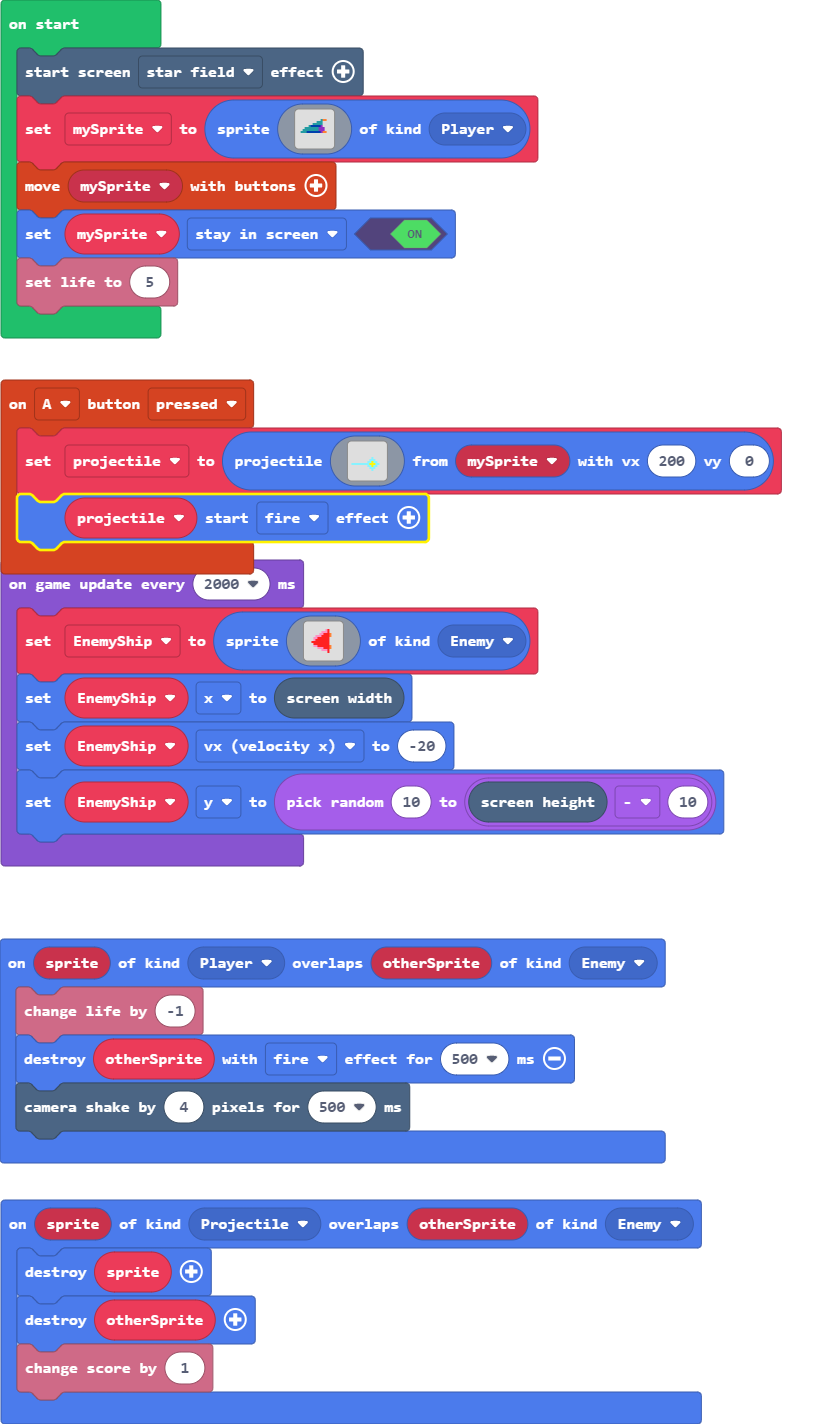
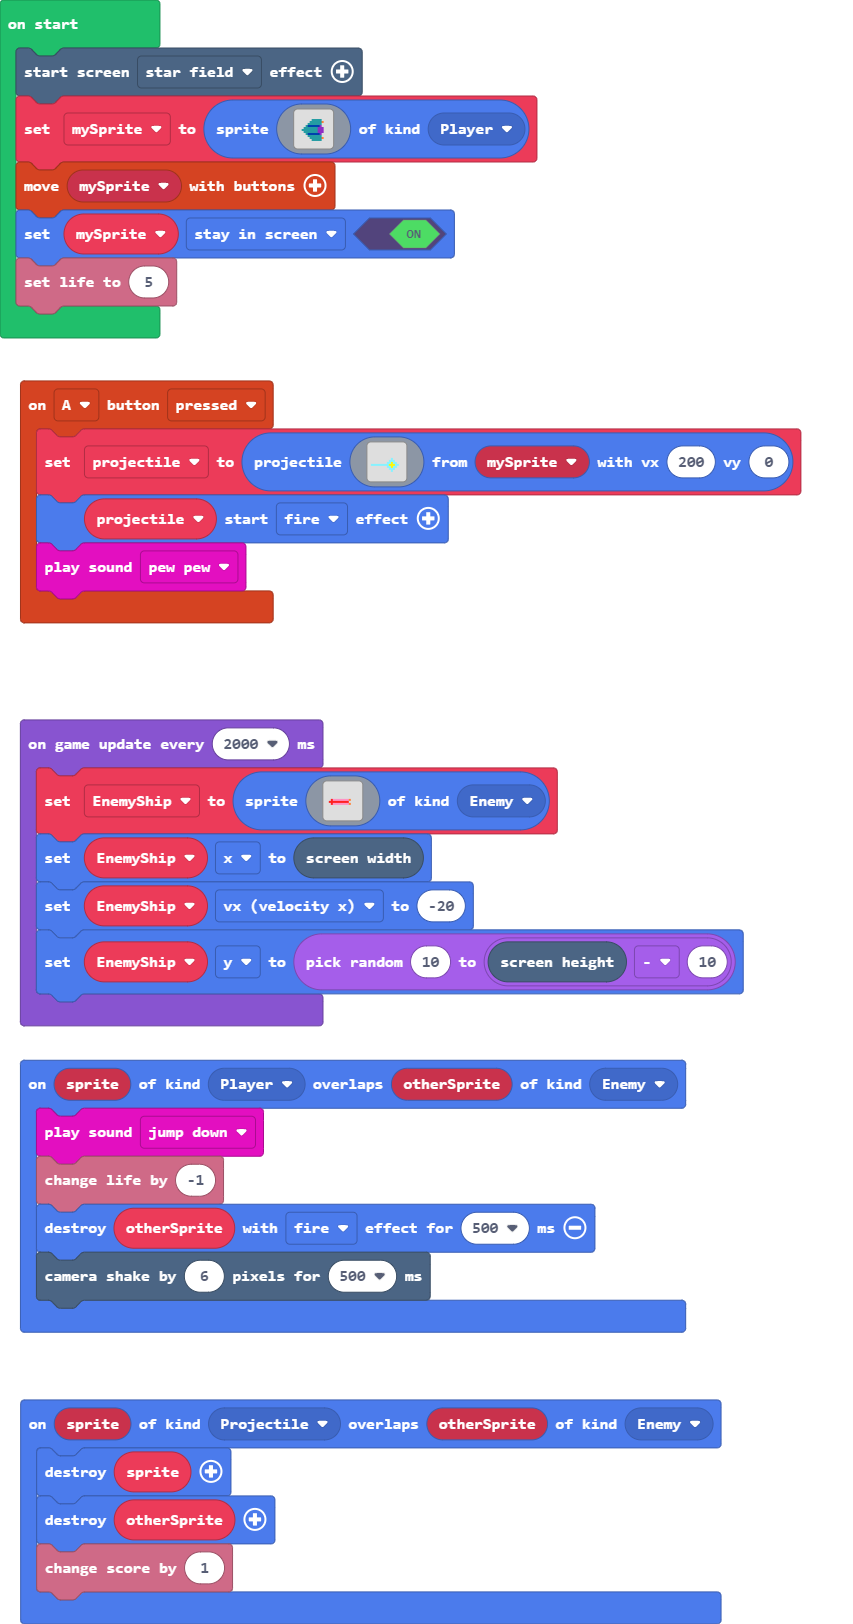
Update main.blocks, main.ts

diff --git a/main.ts b/main.ts
@@ -18,6 +18,7 @@ controller.A.onEvent(ControllerButtonEvent.Pressed, function () {
         . . . . . . . . . . . . . . . . 
         `, mySprite, 200, 0)
     projectile.startEffect(effects.fire)
+    music.pewPew.play()
 })
 sprites.onOverlap(SpriteKind.Projectile, SpriteKind.Enemy, function (sprite, otherSprite) {
     sprite.destroy()
@@ -25,9 +26,10 @@ sprites.onOverlap(SpriteKind.Projectile, SpriteKind.Enemy, function (sprite, oth
     info.changeScoreBy(1)
 })
 sprites.onOverlap(SpriteKind.Player, SpriteKind.Enemy, function (sprite, otherSprite) {
+    music.jumpDown.play()
     info.changeLifeBy(-1)
     otherSprite.destroy(effects.fire, 500)
-    scene.cameraShake(4, 500)
+    scene.cameraShake(6, 500)
 })
 let EnemyShip: Sprite = null
 let projectile: Sprite = null
@@ -37,17 +39,17 @@ mySprite = sprites.create(img`
     . . . . . . . . . . . . . . . . 
     . . . . . . . . . . . . . . . . 
     . . . . . . . . . . . . . . . . 
-    . . . . . . . . . . . 6 4 4 . . 
-    . . . . . . . . . 6 6 6 . . . . 
     . . . . . . . 6 6 6 6 6 . . . . 
-    . . . . . 6 8 8 8 8 8 a . . . . 
+    . . . . . . 6 6 6 6 6 6 4 . . . 
+    . . . . . 6 6 6 6 6 6 6 . . . . 
+    . . . . 6 8 8 8 8 8 8 a . . . . 
     . . . 6 6 6 6 6 6 6 a a a . . . 
     . . 6 6 6 6 6 6 6 6 a a a . . . 
-    . 6 6 6 8 8 8 8 8 8 8 a 4 4 . . 
-    . . . . . . . . . . . . . . . . 
-    . . . . . . . . . . . . . . . . 
-    . . . . . . . . . . . . . . . . 
-    . . . . . . . . . . . . . . . . 
+    . . . 6 6 6 6 6 6 6 a a a . . . 
+    . . . . 6 8 8 8 8 8 8 a . . . . 
+    . . . . . 6 6 6 6 6 6 6 . . . . 
+    . . . . . . 6 6 6 6 6 6 4 . . . 
+    . . . . . . . 6 6 6 6 6 . . . . 
     . . . . . . . . . . . . . . . . 
     . . . . . . . . . . . . . . . . 
     `, SpriteKind.Player)
@@ -58,18 +60,18 @@ game.onUpdateInterval(2000, function () {
     EnemyShip = sprites.create(img`
         . . . . . . . . . . . . . . . . 
         . . . . . . . . . . . . . . . . 
-        . . . . . . . . . 3 2 . . . . . 
-        . . . . . . . 3 3 3 2 . . . . . 
-        . . . . . . 3 3 2 2 2 4 . . . . 
-        . . . . 3 3 3 2 2 2 2 4 . . . . 
-        . . . 3 3 2 2 2 2 2 2 . . . . . 
-        . . . 3 2 2 2 2 2 2 2 . . . . . 
-        . . 2 2 2 2 2 2 2 2 2 . . . . . 
-        . . . 2 2 2 2 2 2 2 2 . . . . . 
-        . . . 3 3 2 2 2 2 2 2 4 . . . . 
-        . . . . . 3 3 3 2 2 2 4 . . . . 
-        . . . . . . . 3 3 3 2 . . . . . 
-        . . . . . . . . . . 2 . . . . . 
+        . . . . . . . . . . . . . . . . 
+        . . . . . . . . . . . . . . . . 
+        . . . . . . . . . . . . . . . . 
+        . . . . . . . . . . . . . . . . 
+        . . . . . . . . . . . . . . . . 
+        . . 2 3 3 3 3 3 3 3 3 4 . . . . 
+        . 2 2 2 2 2 2 2 2 2 2 . . . . . 
+        . . 2 3 3 3 3 3 3 3 3 4 . . . . 
+        . . . . . . . . . . . . . . . . 
+        . . . . . . . . . . . . . . . . 
+        . . . . . . . . . . . . . . . . 
+        . . . . . . . . . . . . . . . . 
         . . . . . . . . . . . . . . . . 
         . . . . . . . . . . . . . . . . 
         `, SpriteKind.Enemy)
